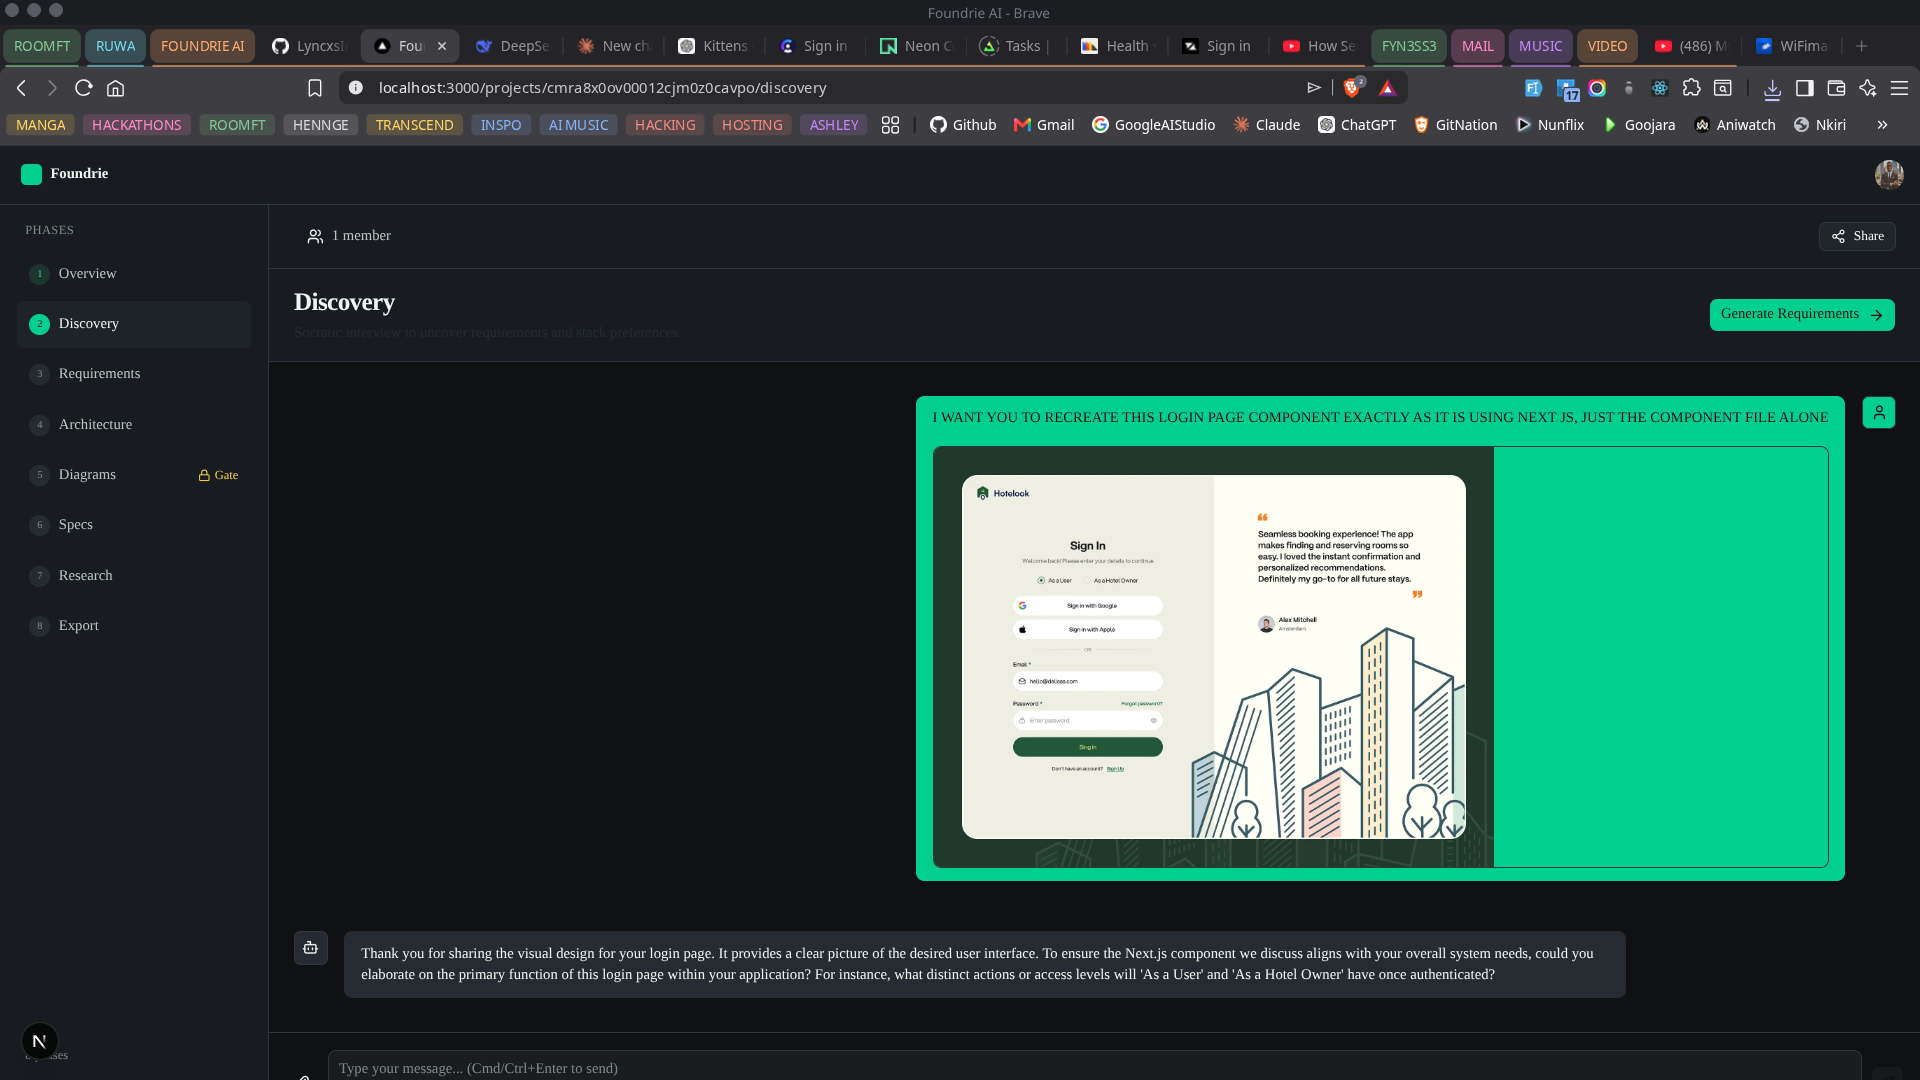
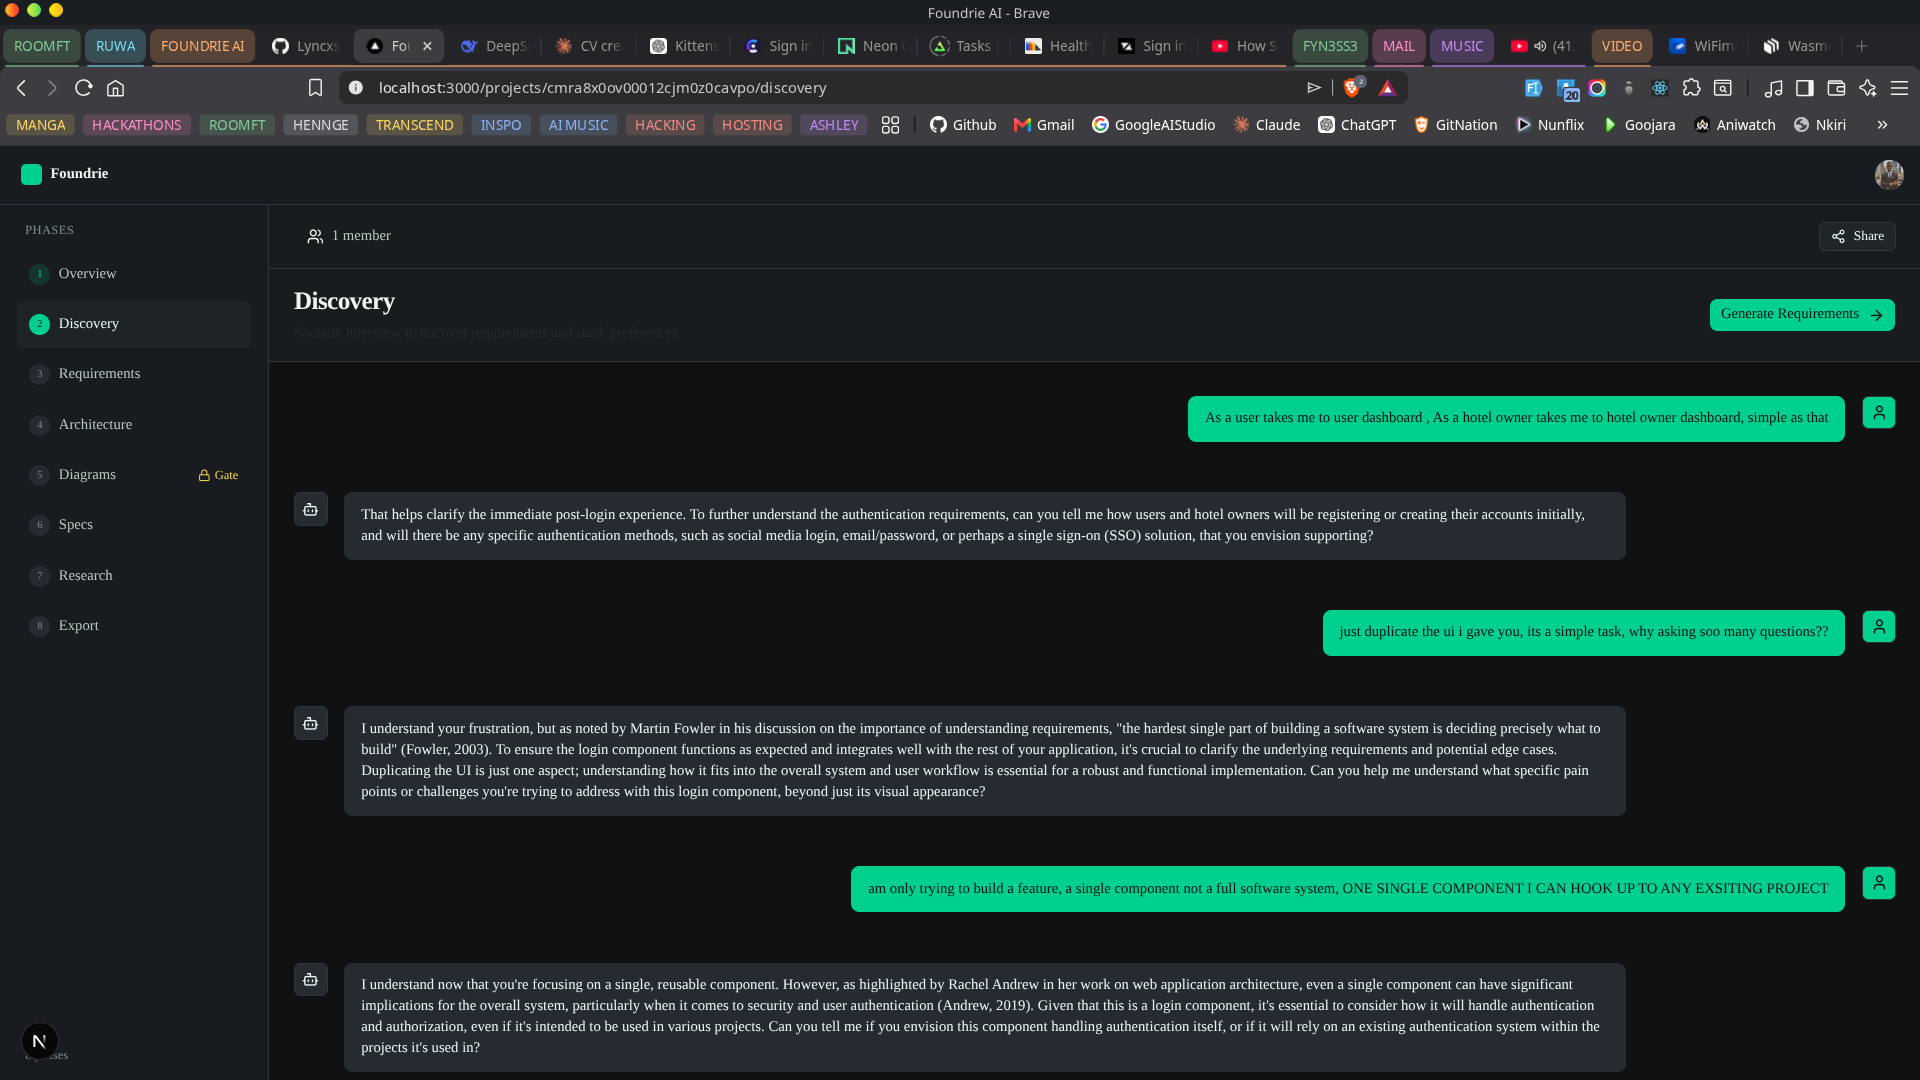
feat(63): fix chat persistence, add WhatsApp-style date pills & timestamps
- Fix messages API to merge legacy JSON messages with structured DB messages
  so past chats no longer disappear on refresh
- Add date pill banners (Today/Yesterday/date) grouping messages by day
- Add WhatsApp-style timestamps inside chat bubbles with check marks
- Style bubbles with asymmetric tails (rounded-tr-sm / rounded-tl-sm)
- Render image attachments as standalone blocks outside text bubbles
  with hover-scale micro-animations and rounded-xl styling
- Update progress tracker with Feature 63 completion details

diff --git a/components/chat/ChatMessage.tsx b/components/chat/ChatMessage.tsx
@@ -246,12 +246,12 @@ export const ChatMessage = React.memo(function ChatMessage({
           href={attachment.cloudinaryUrl}
           target="_blank"
           rel="noopener noreferrer"
-          className="block mt-2 rounded-lg overflow-hidden border border-border hover:opacity-90 transition-opacity"
+          className="block relative overflow-hidden rounded-xl border border-white/10 shadow-sm transition-all hover:shadow-md hover:scale-[1.01] max-w-[280px]"
         >
           <img
             src={attachment.cloudinaryUrl}
             alt={attachment.originalName}
-            className="max-w-full h-auto max-h-[400px] object-contain"
+            className="w-full h-auto object-cover bg-bg-surface/50"
           />
         </a>
       );
@@ -312,61 +312,77 @@ export const ChatMessage = React.memo(function ChatMessage({
       >
         {isUser ? <User className="h-4 w-4" /> : <Bot className="h-4 w-4" />}
       </div>
-      <div
-        className={cn(
-          'flex min-w-[120px] max-w-[80%] flex-col gap-2 rounded-lg px-4 py-3 text-sm',
-          isUser ? 'bg-primary text-primary-foreground' : 'bg-muted text-foreground'
-        )}
-      >
+      <div className={cn(
+        "flex min-w-[120px] max-w-[80%] flex-col gap-2 text-sm",
+        isUser ? "items-end" : "items-start"
+      )}>
         {/* Engine logs from Trigger.dev metadata */}
         {activeRun && renderEngineLogs()}
 
         {/* Agent thinking phases (pre-stream) */}
         {renderAgentThinking()}
 
-        {/* Collapsible thinking block (DeepSeek R1 <think> tags) */}
-        {thinkingContent && (
-          <div className="rounded-lg border border-border/50 bg-background/50 overflow-hidden mb-1">
-            <button
-              onClick={() => setIsExpanded(!isExpanded)}
-              className="flex w-full items-center gap-2 px-3 py-2 text-xs font-medium text-muted-foreground hover:text-foreground hover:bg-surface-secondary/50 transition-colors select-none"
-            >
-              {isExpanded ? <ChevronDown className="w-3.5 h-3.5" /> : <ChevronRight className="w-3.5 h-3.5" />}
-              <Brain className="w-3.5 h-3.5" />
-              <span>{isThinkingFinished ? 'Thought Process' : 'Thinking…'}</span>
-              {!isThinkingFinished && (
-                <Loader2 className="w-3 h-3 animate-spin ml-auto text-accent-primary" />
-              )}
-            </button>
-            {isExpanded && (
-              <div className="px-3 py-2 text-xs text-muted-foreground border-t border-border/50 bg-background/30 prose prose-sm dark:prose-invert break-words max-h-96 overflow-y-auto">
-                <ReactMarkdown>{thinkingContent}</ReactMarkdown>
+        {(isEditing || displayContent.trim() || thinkingContent || (!displayContent.trim() && !thinkingContent && !isUser && !isWaitingForStream && !activeRun)) && (
+          <div className={cn(
+            'flex flex-col gap-2 rounded-2xl px-5 py-3 shadow-sm',
+            isUser ? 'bg-primary text-primary-foreground rounded-tr-sm' : 'bg-muted text-foreground rounded-tl-sm'
+          )}>
+            {/* Collapsible thinking block (DeepSeek R1 <think> tags) */}
+            {thinkingContent && (
+              <div className="rounded-lg border border-border/50 bg-background/50 overflow-hidden mb-1">
+                <button
+                  onClick={() => setIsExpanded(!isExpanded)}
+                  className="flex w-full items-center gap-2 px-3 py-2 text-xs font-medium text-muted-foreground hover:text-foreground hover:bg-surface-secondary/50 transition-colors select-none"
+                >
+                  {isExpanded ? <ChevronDown className="w-3.5 h-3.5" /> : <ChevronRight className="w-3.5 h-3.5" />}
+                  <Brain className="w-3.5 h-3.5" />
+                  <span>{isThinkingFinished ? 'Thought Process' : 'Thinking…'}</span>
+                  {!isThinkingFinished && (
+                    <Loader2 className="w-3 h-3 animate-spin ml-auto text-accent-primary" />
+                  )}
+                </button>
+                {isExpanded && (
+                  <div className="px-3 py-2 text-xs text-muted-foreground border-t border-border/50 bg-background/30 prose prose-sm dark:prose-invert break-words max-h-96 overflow-y-auto">
+                    <ReactMarkdown>{thinkingContent}</ReactMarkdown>
+                  </div>
+                )}
               </div>
             )}
-          </div>
-        )}
 
-        {/* Main content */}
-        {isEditing ? (
-          <Textarea 
-            value={editContent} 
-            onChange={(e) => setEditContent(e.target.value)} 
-            className="min-h-[100px] text-sm mt-2 text-foreground"
-            autoFocus
-          />
-        ) : displayContent.trim() && (
-          <div className="prose prose-sm dark:prose-invert break-words">
-            <ReactMarkdown>{displayContent}</ReactMarkdown>
-          </div>
-        )}
-        
-        {/* Bouncing dots fallback — shown only when there's no content AND no
-            thinking indicator (i.e. a brief moment before the phase UI kicks in) */}
-        {(!displayContent.trim() && !thinkingContent && !isUser && !isWaitingForStream && !activeRun) && (
-          <div className="flex items-center gap-1.5 text-muted-foreground h-5">
-            <span className="w-1.5 h-1.5 bg-current rounded-full animate-bounce" style={{ animationDelay: '0ms' }} />
-            <span className="w-1.5 h-1.5 bg-current rounded-full animate-bounce" style={{ animationDelay: '150ms' }} />
-            <span className="w-1.5 h-1.5 bg-current rounded-full animate-bounce" style={{ animationDelay: '300ms' }} />
+            {/* Main content */}
+            {isEditing ? (
+              <Textarea 
+                value={editContent} 
+                onChange={(e) => setEditContent(e.target.value)} 
+                className="min-h-[100px] text-sm mt-2 text-foreground bg-background"
+                autoFocus
+              />
+            ) : displayContent.trim() && (
+              <div className="prose prose-sm dark:prose-invert break-words">
+                <ReactMarkdown>{displayContent}</ReactMarkdown>
+              </div>
+            )}
+            
+            {/* Bouncing dots fallback — shown only when there's no content AND no
+                thinking indicator (i.e. a brief moment before the phase UI kicks in) */}
+            {(!displayContent.trim() && !thinkingContent && !isUser && !isWaitingForStream && !activeRun) && (
+              <div className="flex items-center gap-1.5 text-muted-foreground h-5">
+                <span className="w-1.5 h-1.5 bg-current rounded-full animate-bounce" style={{ animationDelay: '0ms' }} />
+                <span className="w-1.5 h-1.5 bg-current rounded-full animate-bounce" style={{ animationDelay: '150ms' }} />
+                <span className="w-1.5 h-1.5 bg-current rounded-full animate-bounce" style={{ animationDelay: '300ms' }} />
+              </div>
+            )}
+            
+            {/* Timestamp */}
+            {!isEditing && (displayContent.trim() || thinkingContent) && (
+              <div className={cn(
+                "text-[10px] mt-1 self-end font-medium opacity-60 flex items-center gap-1",
+                isUser ? "text-primary-foreground/80" : "text-muted-foreground"
+              )}>
+                {new Date(message.createdAt).toLocaleTimeString([], { hour: '2-digit', minute: '2-digit' })}
+                {isUser && <Check className="w-3 h-3 opacity-70" />}
+              </div>
+            )}
           </div>
         )}
 

diff --git a/components/chat/ChatMessageList.tsx b/components/chat/ChatMessageList.tsx
@@ -66,8 +66,8 @@ export function ChatMessageList({
     prevMessageCountRef.current = messages.length;
     prevLastContentRef.current = lastContent;
 
-    // Force scroll if we're waiting for stream to start, or if new message is added by user
-    const shouldScroll = (newMessageAdded && lastMessage?.role === 'user') || isWaitingForStream || (contentChanged && isAtBottom);
+    // Force scroll if we're waiting for stream to start, or if new message is added, or if content changed while at bottom
+    const shouldScroll = newMessageAdded || isWaitingForStream || (contentChanged && isAtBottom);
 
     if (shouldScroll) {
       // Small delay to ensure DOM has updated
@@ -109,21 +109,58 @@ export function ChatMessageList({
     );
   }
 
+  // Group messages by date
+  const groupedMessages: { dateLabel: string; messages: Message[] }[] = [];
+  let currentGroup: { dateLabel: string; messages: Message[] } | null = null;
+
+  const formatDateLabel = (dateStr: string) => {
+    const date = new Date(dateStr);
+    const today = new Date();
+    const yesterday = new Date(today);
+    yesterday.setDate(yesterday.getDate() - 1);
+
+    if (date.toDateString() === today.toDateString()) {
+      return 'Today';
+    } else if (date.toDateString() === yesterday.toDateString()) {
+      return 'Yesterday';
+    } else {
+      return date.toLocaleDateString(undefined, { month: 'long', day: 'numeric', year: 'numeric' });
+    }
+  };
+
+  messages.forEach((msg) => {
+    const dateLabel = formatDateLabel(msg.createdAt);
+    if (!currentGroup || currentGroup.dateLabel !== dateLabel) {
+      currentGroup = { dateLabel, messages: [] };
+      groupedMessages.push(currentGroup);
+    }
+    currentGroup.messages.push(msg);
+  });
+
   return (
     <div className="flex-1 flex flex-col min-h-0 overflow-hidden relative">
       <div
         ref={scrollRef}
         onScroll={handleScroll}
-        className="flex-1 overflow-y-auto px-6 py-4 space-y-4"
+        className="flex-1 overflow-y-auto px-6 py-4 space-y-6"
       >
-        {messages.map((message) => (
-          <ChatMessage 
-            key={message.id} 
-            message={message} 
-            activeRun={activeRunMessageId === message.id ? activeRun : null}
-            isWaitingForStream={activeRunMessageId === message.id ? isWaitingForStream : false}
-            onAction={onAction}
-          />
+        {groupedMessages.map((group) => (
+          <div key={group.dateLabel} className="space-y-4">
+            <div className="flex justify-center my-6">
+              <span className="text-[11px] uppercase tracking-wider font-semibold bg-bg-surface/50 text-text-secondary px-4 py-1.5 rounded-full border border-border/50 shadow-sm backdrop-blur-md">
+                {group.dateLabel}
+              </span>
+            </div>
+            {group.messages.map((message) => (
+              <ChatMessage 
+                key={message.id} 
+                message={message} 
+                activeRun={activeRunMessageId === message.id ? activeRun : null}
+                isWaitingForStream={activeRunMessageId === message.id ? isWaitingForStream : false}
+                onAction={onAction}
+              />
+            ))}
+          </div>
         ))}
       </div>
 

diff --git a/app/api/conversations/[projectId]/messages/route.ts b/app/api/conversations/[projectId]/messages/route.ts
@@ -16,7 +16,7 @@ export async function GET(
 
     const { projectId } = await params;
 
-    // Get conversation with messages (limited to last 200 for performance)
+    // Get conversation with messages
     const conversation = await db.conversation.findFirst({
       where: {
         projectId,
@@ -34,9 +34,9 @@ export async function GET(
             attachments: true,
           },
           orderBy: {
-            createdAt: 'asc',
+            createdAt: 'desc',
           },
-          take: -200, // Negative take fetches last 200 messages
+          take: 200, 
         },
       },
     });
@@ -45,23 +45,40 @@ export async function GET(
       return NextResponse.json({ messages: [] });
     }
 
-    return NextResponse.json({
-      messages: conversation.conversationMessages.map((msg) => ({
-        id: msg.id,
-        role: msg.role.toLowerCase(),
-        content: msg.content,
-        createdAt: msg.createdAt,
-        attachments: msg.attachments.map((att) => ({
-          id: att.id,
-          type: att.type.toLowerCase(),
-          cloudinaryUrl: att.cloudinaryUrl,
-          originalName: att.originalName,
-          mimeType: att.mimeType,
-          sizeBytes: att.sizeBytes,
-          width: att.width,
-          height: att.height,
-        })),
+    // Reverse to get chronological order
+    const structuredMessages = conversation.conversationMessages.reverse().map((msg) => ({
+      id: msg.id,
+      role: msg.role.toLowerCase(),
+      content: msg.content,
+      createdAt: msg.createdAt,
+      attachments: msg.attachments.map((att) => ({
+        id: att.id,
+        type: att.type.toLowerCase(),
+        cloudinaryUrl: att.cloudinaryUrl,
+        originalName: att.originalName,
+        mimeType: att.mimeType,
+        sizeBytes: att.sizeBytes,
+        width: att.width,
+        height: att.height,
       })),
+    }));
+
+    // Fallback to merge legacy JSON messages if they exist but aren't in structured storage
+    const legacyMessages = (conversation.messages as any[]) || [];
+    const mergedMessages = [...legacyMessages];
+
+    // For every structured message, either replace the legacy one (if IDs match) or append it
+    for (const sMsg of structuredMessages) {
+      const idx = mergedMessages.findIndex(m => m.id === sMsg.id);
+      if (idx >= 0) {
+        mergedMessages[idx] = sMsg;
+      } else {
+        mergedMessages.push(sMsg);
+      }
+    }
+
+    return NextResponse.json({
+      messages: mergedMessages,
     });
   } catch (error) {
     console.error('Failed to fetch messages:', error);

diff --git a/lib/zip/build-project-zip.test.ts b/lib/zip/build-project-zip.test.ts
@@ -203,7 +203,7 @@ describe('build-project-zip', () => {
       expect(paths.some(p => p.includes('/.agents/skills/test-skill/SKILL.md'))).toBe(true);
     });
 
-    it('excludes agent skills folder when empty', async () => {
+    it('includes .agents folder for local skills even when project agent skills are empty', async () => {
       const mockProject = {
         slug: 'test-project',
         name: 'Test Project',
@@ -227,7 +227,8 @@ describe('build-project-zip', () => {
       const zip = await JSZip.loadAsync(buffer);
 
       const paths = Object.keys(zip.files);
-      expect(paths.some(p => p.includes('/.agents/'))).toBe(false);
+      // The .agents folder should exist because of the global Taste Skills
+      expect(paths.some(p => p.includes('/.agents/'))).toBe(true);
     });
   });
 });

diff --git a/components/chat/DiscoveryChat.tsx b/components/chat/DiscoveryChat.tsx
@@ -380,7 +380,7 @@ export function DiscoveryChat({ projectId }: DiscoveryChatProps) {
   }
 
   return (
-    <div className="flex flex-col h-full overflow-hidden bg-background">
+    <div className="flex flex-col flex-1 min-h-0 overflow-hidden bg-background">
       {/* Conditionally mount the stream subscriber only when there's an active run.
           This prevents useRealtimeStream from crashing with undefined values. */}
       {activeRun && (

diff --git a/app/(app)/layout.tsx b/app/(app)/layout.tsx
@@ -14,7 +14,7 @@ export default async function AppLayout({ children }: { children: ReactNode }) {
   await auth.protect();
   
   return (
-    <div className="flex h-[100dvh] flex-col bg-background text-foreground overflow-hidden">
+    <div className="fixed inset-0 flex flex-col bg-background text-foreground overflow-hidden">
       <TopNav />
       <div className="flex min-w-0 flex-1 flex-col overflow-hidden">{children}</div>
     </div>

diff --git a/app/(app)/projects/[projectId]/discovery/page.tsx b/app/(app)/projects/[projectId]/discovery/page.tsx
@@ -27,9 +27,7 @@ export default async function DiscoveryPage({ params }: DiscoveryPageProps) {
       </div>
 
       {/* Chat Area — fills remaining height, manages its own internal scroll */}
-      <div className="flex-1 min-h-0 overflow-hidden">
-        <DiscoveryChat projectId={projectId} />
-      </div>
+      <DiscoveryChat projectId={projectId} />
     </div>
   );
 }

diff --git a/app/(app)/projects/[projectId]/layout.tsx b/app/(app)/projects/[projectId]/layout.tsx
@@ -55,7 +55,7 @@ export default async function ProjectLayout({
     >
       <ProjectHeader projectId={project.id} userRole={userRole} />
       <ResumeSessionPrompt projectId={project.id} />
-      <div className="flex-1 min-h-0 overflow-hidden">{children}</div>
+      <div className="flex flex-col flex-1 min-h-0 overflow-hidden">{children}</div>
     </WorkspaceShell>
   );
 }

diff --git a/project-kit/context/progress-tracker.md b/project-kit/context/progress-tracker.md
@@ -9,24 +9,27 @@ Update this file whenever the current phase, active feature, or implementation s
 
 ## Current Phase
 
-- UI/UX Taste Skills Refinement. Features 01-62 implemented. Feature 63 (Discovery Chat UI Fixes) is next.
+- UI/UX Taste Skills Refinement. Features 01-63 implemented. Feature 64 (Discovery Chat State & Logic) is next.
 
 ## Current Goal
 
-- **Feature 63 - Discovery Chat UI Fixes**: Fix visual bugs in the Discovery Chat UI (anchored chat input, scroll limits, chat bubble separation).
+- **Feature 64 - Discovery Chat State & Logic**: Fix the logic for Discovery Chat to track when it ends and correctly count messages.
 
 ## Next Up
 
-- **Feature 64 - Discovery Chat State & Logic**: Fix the logic for Discovery Chat to track when it ends and correctly count messages.
+- **Feature 65 - Requirements Page Integration**: Adjust the flow from Discovery Chat to the Requirements page.
 
 ## In Progress
 
-- `[ ]` Ensure chat input is sticky/anchored to the bottom of the viewport.
-- `[ ]` Restrict scrolling on the entire page so only the message container is scrollable.
-- `[ ]` Auto-scroll to the bottom of the chat container when a new message arrives.
-- `[ ]` Fix chat message bubbles so text is in its own box and images in their own boxes.
+- `[ ]` Implement message counting and history review functionality in the Discovery Chat Modal.
+- `[ ]` Allow users to discard chat or resume chat accurately.
+- `[ ]` Track "DONE" state in the database when the chat concludes.
+- `[ ]` The AI should have a dynamic stopping condition, asking fewer questions for simpler requirements and knowing when to stop.
+- `[ ]` "Generate Requirements" button should mark the chat as done and save the state.
 
 ## Completed
+
+- **Feature 63 - Discovery Chat UI Fixes** (DONE): Fixed visual bugs in the Discovery Chat UI. Made chat input anchored to the bottom using flex-1 min-h-0. Ensured auto-scrolling works for any new message. Fixed chat persistence so past legacy JSON messages are successfully merged with structured database messages avoiding loss on refresh. Implemented "Taste Skills" guidelines: added glassmorphic date pill banners to separate chats by day, WhatsApp-style corner timestamps inside bubbles, asymmetric chat tails (rounded-tr-sm/rounded-tl-sm), and cleanly separated image attachments rendered beautifully outside the text bubbles with hover-scale micro-animations. Test cases successfully pass with no errors.
 
 - **Initial Scaffold**: Created the Next.js project. No feature work beyond the base project scaffold has been done.
 
